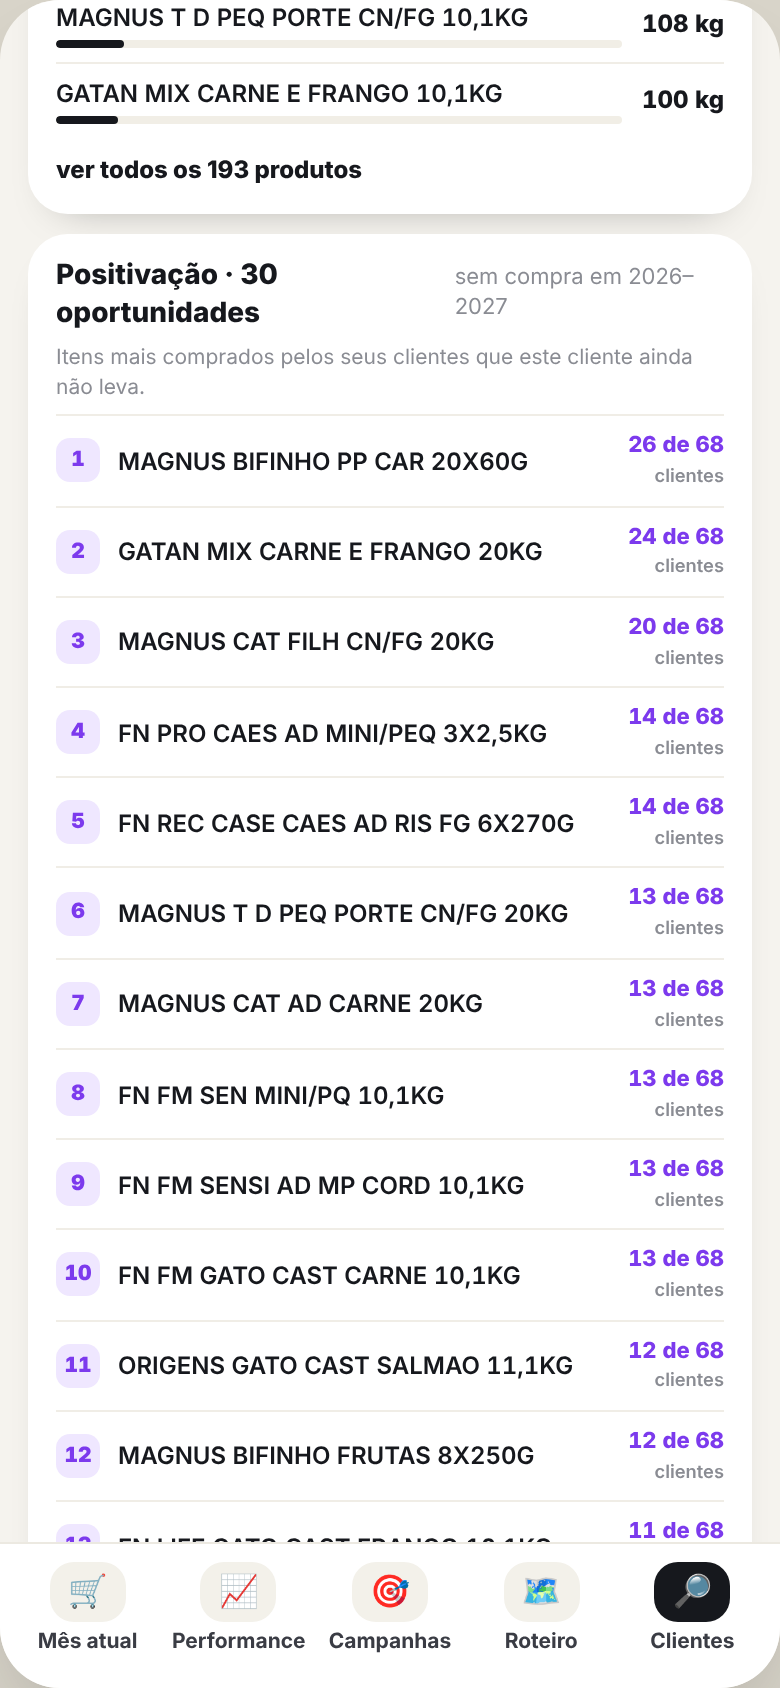
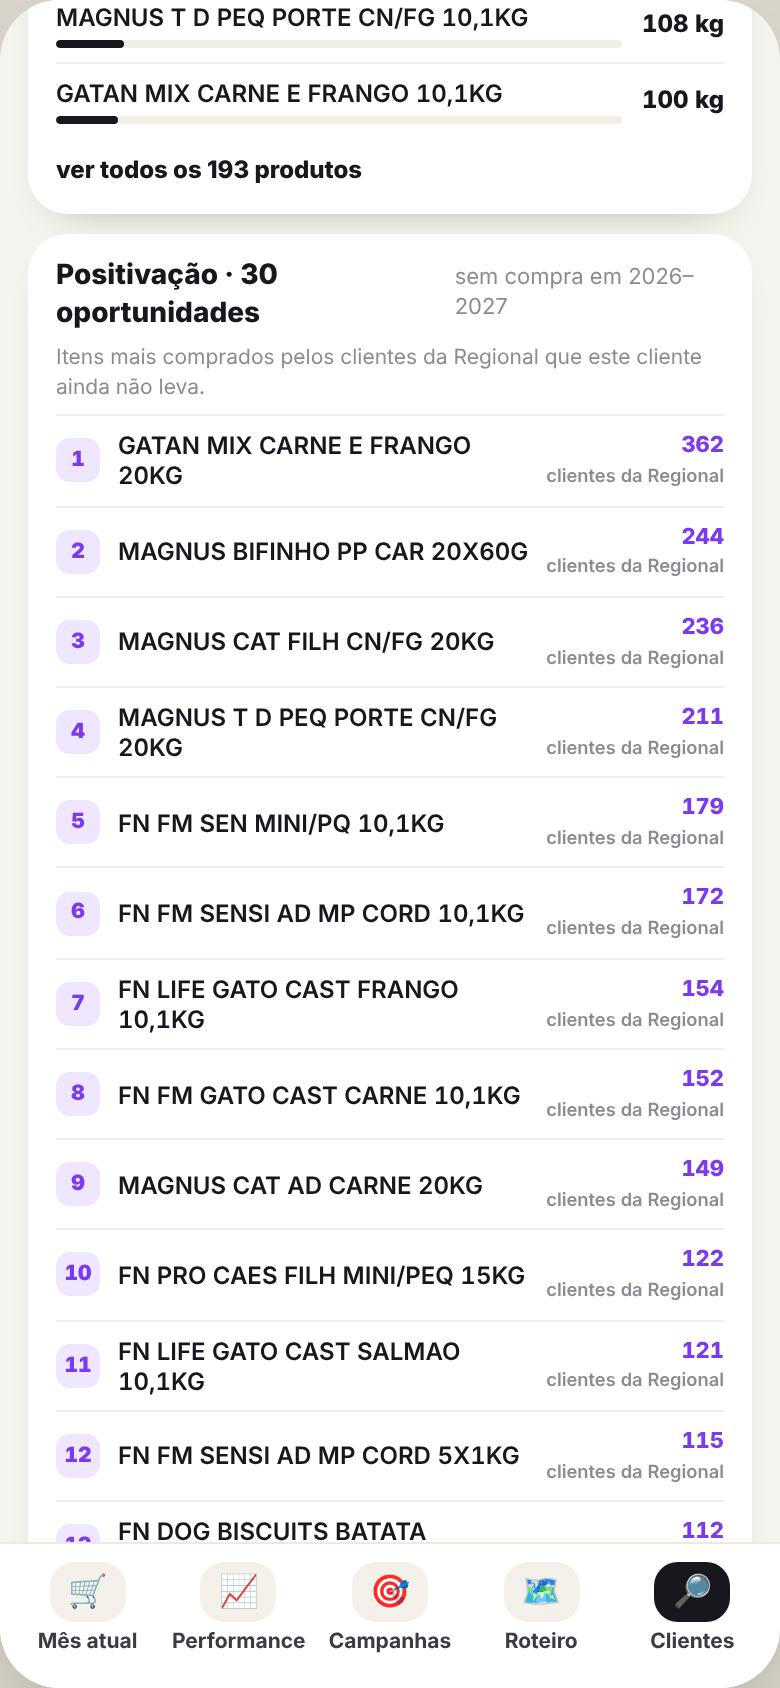
BI 2027: positivação da ficha com referência da Regional
Claude-Session: https://claude.ai/code/session_01LrJjmJWahWzPiewsbMYBEe

diff --git a/tools/bi2027/prototipos/ficha_cliente.html b/tools/bi2027/prototipos/ficha_cliente.html
@@ -40,7 +40,7 @@
 <div class="phone"><div class="scroll" id="app"></div>
 <div class="nav"><button><span>🛒</span>Mês atual</button><button><span>📈</span>Performance</button><button><span>🎯</span>Campanhas</button><button><span>🗺</span>Roteiro</button><button class="on"><span>🔎</span>Clientes</button></div></div>
 <script>
-const D={"cli": {"cod": "133752", "nome": "V DE ARAUJO SILVA AGROPECUARIA", "rede": "SEM REDE", "med25": 4409, "med26": 6099, "mes": 563, "cart": 571, "dias": 1, "freq": 8}, "reb": [{"cod": "133752", "rede": "V DE ARAUJO SILVA AGROPECUARIA", "grupo": "Total", "objetivo": 17500, "realizado": 14814, "rs_faturado": 87959, "rebate": 0}, {"cod": "133752", "rede": "V DE ARAUJO SILVA AGROPECUARIA", "grupo": "G1", "objetivo": 700, "realizado": 145, "rs_faturado": 4893, "rebate": 0}, {"cod": "133752", "rede": "V DE ARAUJO SILVA AGROPECUARIA", "grupo": "G2", "objetivo": 2400, "realizado": 68, "rs_faturado": 1214, "rebate": 0}, {"cod": "133752", "rede": "V DE ARAUJO SILVA AGROPECUARIA", "grupo": "G3", "objetivo": 6700, "realizado": 6143, "rs_faturado": 42088, "rebate": 0}], "itens": [["MAGNUS T D SABOR CARNE 15KG", 900], ["ORIGENS CLASS AD CN/FG 15KG", 875], ["MAGNUS T D SABOR CARNE 20KG", 783], ["MAGNUS T D PEQ PORTE CN/FG 15KG", 346], ["ORIGENS CLASS AD CN/FG 16KG", 200], ["FN LIFE AD PORT MINI/PEQ 15KG", 188], ["ORIGENS CAO MIN/PEQ CN/CER 15KG", 156], ["ORIGENS CAO MIN/PEQ FG/CER 15KG", 145], ["MAGNUS T D PEQ PORTE CN/FG 10,1KG", 108], ["GATAN MIX CARNE E FRANGO 10,1KG", 100], ["ORIGENS CAO SENIOR MINI/PEQ10,1KG", 70], ["ORIGENS CLASS AD CN/FG 20KG", 65], ["FN PRO CAES AD MED/GR 15KG", 59], ["ORIGENS GATO CAST SALMAO 10,1KG", 54], ["FN PRO CAES AD MINI/PEQ 15KG", 54], ["FN LIFE FILH PORT MINI/PEQ 15KG", 52], ["ORIGENS CLASS GATO CAST 10,1KG", 43], ["FN LIFE GATO CAST SALMAO 15KG", 42], ["MAGNUS T D FILH CARNE 10,1KG", 39], ["ORIGENS GATO CAST FRANGO 10,1KG", 36], ["ORIGENS GATO FILH FRANGO 10,1KG", 31], ["ORIGENS CAO FILH MINI/PEQ 10,1KG", 28], ["FN LIFE SENIOR PORT MINI/PEQ 15KG", 25], ["ORIGENS CAO FILH MED/GRAND 15KG", 25], ["ORIGENS GATO CAST CARNE 10,1KG", 24], ["ORIGENS CAO SENIOR MED/GRAND 15KG", 22], ["ORIGENS CAO MIN/PEQ CN/CER 10,1KG", 21], ["FN LIFE AD PORT MED/GR 15KG", 20], ["ORIGENS ENERGY CAO FILH FRAN 15KG", 20], ["ORIGENS AD SHIHTZU/LHASA 4X3KG", 18], ["ORIGENS CAO MIN/PEQ FG/CER 11,1KG", 18], ["MAGNUS CAT AD CARNE 10,1KG", 17], ["CAPITAO DOG SABOR CARNE 14KG", 16], ["ORIGENS CAO AD FRAN/CER 15KG", 16], ["MAGNUS CAT AD SALMAO 10,1KG", 14], ["MAGNUS CAT AD CAST SALMAO 10,1KG", 13], ["ORIGENS AD PIT BULL/ROTTW 15KG", 12], ["MAGNUS CAT AD CAST CARNE 10,1KG", 12], ["MAGNUS T D SABOR CARNE 10,1KG", 12], ["MAGNUS T D FILH CARNE 20KG", 12], ["ORIGENS CLASS AD MIN/P CN/FG 15KG", 11], ["ORIGENS ENERGY POWER AD 15KG", 11], ["SACHE ORIGENS GATO AD/FILH 18X85G", 11], ["FN LIFE AD PORT MINI/PEQ 3X2,5KG", 11], ["SACHE ORIGENS CAO AD CAR 18X85G", 11], ["ORIGENS CAO MIN/PEQ FG/CER 10,1KG", 10], ["ORIGENS AD SHIHTZU/LHASA 10,1KG", 10], ["MAGNUS CAT AD CAST FG RECH 20KG", 10], ["SACHE ORIGENS GATO CAST FG 18X85G", 10], ["MAGNUS CAT FILH CN/FG 10,1KG", 9], ["MAGNUS BIFINHO CARNE 6X500G", 9], ["FN PRO CAES SENIO MIN/PEQ 10,1KG", 8], ["SACHE ORIGENS CAO PP FRAN 18X85G", 8], ["ORIGENS CAO SENIOR MINI/PEQ 4X3KG", 8], ["ORIGENS AD YORK/MALT/SPI 10,1KG", 8], ["ORIGENS CAO LIGH M/P FG/CE 10,1KG", 8], ["ORIGENS CAO AD CARNE/CER 15KG", 8], ["ORIGENS ENERGY CAO AD FRAN 15KG", 8], ["ORIGENS FILH PIT BULL/ROTTW 15KG", 8], ["SACHE ORIGENS GATO CAST SAL18X85G", 7], ["FN FM FILH GR/GIG 12KG", 7], ["SACHE ORIGENS CAO FILH CAR 18X85G", 7], ["ORIGENS GATO AD CARNE 10,1KG", 7], ["FN LIFE FILH PORT MINI/PEQ3X2,5KG", 6], ["FN PRO CAES FILH MED/GD 15KG", 6], ["MAGNUS CHIPS AD CN/FG 15KG", 6], ["ORIGENS NAT CAO AD MG OVEL 12KG", 6], ["FN LIFE AD PORT MINI/PEQ 10,1KG", 6], ["FN FM AD MINI/PQ 10,1KG", 6], ["MAGNUS BISCOITO ORIGINAL 5X1KG", 6], ["ORIGENS FILH SHIHTZU/LHASA 10,1KG", 5], ["CAPITAO DOG SABOR CARNE 20KG", 5], ["FN LIFE SENIOR PORT MED/GR 15KG", 5], ["FN PRO CAES SENIO MED/GD 15KG", 5], ["ORIGENS GATO CAST SALMAO 4X3KG", 5], ["FN VET GATOS URINARIA 2X1,5KG", 5], ["MAGNUS BISCOITO MIX 5X1KG", 5], ["FN FM GATO CAST SALMAO 10,1KG", 4], ["ORIGENS NAT CAO AD M/P 10,1KG", 4], ["ORIGENS NAT CAO AD MP OVEL 10,1KG", 4], ["MAGNUS BIFINHO PP CAR 6X500G", 4], ["ORIGENS CAO MIN/PEQ CN/CER4X3KG", 4], ["ORIGENS CAO MIN/PEQ FG/CER 4X3KG", 4], ["ORIGENS FILH SHIHTZU/LHASA 4X3KG", 4], ["ORIGENS GATO CAST CARNE 4X3KG", 4], ["ORIGENS GATO CAST FRANGO4X3KG", 4], ["FN LIFE FILH PORT MED/GR 15KG", 4], ["ORIGENS AD SHIHTZU/LHASA 5X1KG", 4], ["ORIGENS CAO LIGHT MD/GD FG 15KG", 4], ["ORIGENS ENERGY POWER FILH 15KG", 4], ["ORIGENS NAT CAO SEN M/P 10,1KG", 3], ["FN FM AD MINI/PQ 3X2,5KG", 3], ["SACHE ORIGENS GATO CAST ATU18X85G", 3], ["ORIGENS GATO AD CARNE 4X3KG", 3], ["ORIGENS NAT CAO AD MP FG 4X3KG", 3], ["SACHE ORIGENS CAO AD CORD 18X85G", 3], ["FN FM FILH MINI/PQ 10,1KG", 2], ["ORIGENS AD BULDOG F/PUG 10,1KG", 2], ["ORIGENS GATO CAST SENIO SAL10,1KG", 2], ["ORIGENS NAT CAO FILH MP FG 10,1KG", 2], ["FN FM AD MINI/PQ 5X1KG", 2], ["MAGNUS BISCOITO ORIGINAL 10X400G", 2], ["MAGNUS BISCOITO PEQ PORT 10X400G", 2], ["FN LIFE GATO CAST FRANGO 5X1KG", 2], ["MAGNUS BISCOITO PEQ PORT 5X1KG", 2], ["FN FM AD MEDIO 12KG", 2], ["FN VET CAES HIPO MINI/PQ 2X2KG", 2], ["MAGNUS BIFINHO FRANGO 6X500G", 2], ["ORIGENS CAO FILH MINI/PEQ 4X3KG", 2], ["ORIGENS GATO FILH FRANGO 4X3KG", 2], ["ORIGENS NAT CAO FILH MG FG 12KG", 2], ["FN FM FILH MINI/PQ3X2,5KG", 2], ["FN FM SENSI AD MP CORD3X2,5KG", 2], ["FN VET CAES HIPO MINI/PQ 10,1KG", 2], ["FN LIFE FILH PORT MINI/PEQ 5X1KG", 2], ["FN PRO CAES AD MED/GD 20KG", 2], ["FN PRO CAES SENIO MIN/PEQ 5X1KG", 2], ["ORIGENS CAO SENIOR MINI/PEQ 5X1KG", 2], ["ORIGENS GATO CAST FRANGO 5X1KG", 2], ["ORIGENS GATO FILH FRANGO 5X1KG", 2], ["FN VET GATOS RENAL 2X1,5KG", 2], ["FN DOG BISCUITS PP BATATA 10X250G", 2], ["FN FM GATO CAST SALMAO 5X1KG", 1], ["FN LIFE FILH PORT MED/GR 3X2,5KG", 1], ["FN LIFE GATO FILH FRAN/SALM 5X1KG", 1], ["FN LIFE SENIOR PORT MINI/PEQ5X1KG", 1], ["FN PRO CAES AD MINI/PEQ 5X1KG", 1], ["FN PRO CAES SENIO MIN/PEQ 3X2,5KG", 1], ["MAGNUS BISCOITO MIX 10X500G", 1], ["ORIGENS CAO AD GRAND CAR/CER 15KG", 1], ["ORIGENS CAO FILH MINI/PEQ 5X1KG", 1], ["ORIGENS CAO MIN/PEQ CN/CER 5X1KG", 1], ["ORIGENS GATO CAST CARNE 5X1KG", 1], ["FN VET CAES OBES MINI/PQ 2X2KG", 1], ["MAGNUS BIFINHO PALITO CARN 8X250G", 1], ["ORIGENS BISC AD FRAN 7 GRA10X400G", 1], ["ORIGENS BISC AD PP LINHAC 10X400G", 1], ["ORIGENS GATO CAST SENIO SAL 4X3KG", 1], ["ORIGENS NAT CAO AD M/G 12KG", 1], ["FN FM CUID ORAL AD M/P FR 10,1KG", 1], ["FN LIFE FILH PORT MED/GR 10,1KG", 1], ["FN LIFE FILH PORT MINI/PEQ 10,1KG", 1], ["FN LIFE SENIOR PORT MIN/PEQ10,1KG", 1], ["FN FM GATO AD FRANGO 5X1KG", 1], ["FN LIFE AD PORT MINI/PEQ 5X1KG", 1], ["FN LIFE GATO CAST SALMAO 5X1KG", 1], ["FN PRO CAES FILH MINI/PEQ 5X1KG", 1], ["ORIGENS CAO MIN/PEQ FG/CER 5X1KG", 1], ["ORIGENS FILH SHIHTZU/LHASA 5X1KG", 1], ["ORIGENS GATO CAST SALMAO 5X1KG", 1], ["ORIGENS GATO CAST SENIO SAL 5X1KG", 1], ["ORIGENS NAT CAO AD MP FG 5X1KG", 1], ["ORIGENS NAT CAO FILH MP FG 5X1KG", 1], ["FN VET CAES GASTRO 2X2KG", 1], ["FN VET CAES RENAL 2X2KG", 1], ["ORIGENS BISC AD PP PERU 10X400G", 1], ["FN VET CAES/GATO RECUPERAC 6X270G", 0], ["ORIGENS BISC FILH BANANA 10X300G", 0], ["ORIGENS PN NATURAL MIX 4X250G", 0], ["FN DOG BISCUITS PP ABOBOR 10X250G", 0], ["FN FM FILH MINI/PQ 5X1KG", 0], ["MAGNUS BISCOITO FILHOTES 10X250G", 0], ["ORIGENS AD YORK/MALT/SPI 5X1KG", 0], ["ORIGENS NAT CAO AD MP OVEL 5X1KG", 0], ["ORIGENS NAT CAO SEN MP FG 5X1KG", 0], ["FN REC CASE CAES AD PIC CN 6X270G", 0], ["ORIGENS CREMINHO SALM 2X(35X15G)", 0], ["MAGNUS BIFINHO CARNE 20X60G", 0], ["FN REC CASE CAES AD CORD 6X270G", 0], ["ORIGENS CREMINHO CARN 2X(35X15G)", 0], ["MAGNUS CAT PETISCO CN 2X(10X40G)", 0], ["MAGNUS CAT PETISCO FG 2X(10X40G)", 0], ["ORIGENS CREMINHO SALMAO 2X(6X60G)", 0], ["ORIGENS PN FEMUR 6X180G", 0], ["ORIGENS CREMINHO FRANG 2X(35X15G)", 0], ["ORIGENS DENTAL P 20X75G", 0], ["ORIGENS CREMINHO ATUM 2X(6X60G)", 0], ["ORIGENS CREMINHO CAR 2X 6X(4X15G)", 0], ["ORIGENS CREMINHO FRA 2X 6X(4X15G)", 0], ["MAGNUS BIFINHO FRANGO 20X60G", 0], ["MAGNUS BIFINHO FRUTAS 20X60G", 0], ["MAGNUS BIFINHO PALITO CARN 20X60G", 0], ["FN FM COOKIES CAES CORDEIR 6X150G", 0], ["MAGNUS DENTAL CLEAN AD 12X75G", 0], ["MAGNUS CAT PETISCO SAL 2X(10X40G)", 0], ["PETISCO ORIGENS CAT BOLA2X(10X40G)", 0], ["FN SNACKS CAO ANTIESTRES M 6X120G", 0], ["FN SNACKS CAO ANTIESTRES P 6X120G", 0], ["FN SNACKS CAO PELE PELAG P 6X120G", 0], ["FN SNACKS CAO VITALIDADE P 6X120G", 0], ["ORIGENS CREMINHO FRANGO 2X(6X60G)", 0], ["ORIGENS PN COLAGENO 10X30G", 0], ["ORIGENS PN FEMUR SUINO 6X100G", 0]], "posit": [["MAGNUS BIFINHO PP CAR 20X60G", 26], ["GATAN MIX CARNE E FRANGO 20KG", 24], ["MAGNUS CAT FILH CN/FG 20KG", 20], ["FN PRO CAES AD MINI/PEQ 3X2,5KG", 14], ["FN REC CASE CAES AD RIS FG 6X270G", 14], ["MAGNUS T D PEQ PORTE CN/FG 20KG", 13], ["MAGNUS CAT AD CARNE 20KG", 13], ["FN FM SEN MINI/PQ 10,1KG", 13], ["FN FM SENSI AD MP CORD 10,1KG", 13], ["FN FM GATO CAST CARNE 10,1KG", 13], ["ORIGENS GATO CAST SALMAO 11,1KG", 12], ["MAGNUS BIFINHO FRUTAS 8X250G", 12], ["FN LIFE GATO CAST FRANGO 10,1KG", 11], ["MAGNUS CAT AD CAST SALMAO 20KG", 10], ["FN FM CONT PESO MED 12KG", 10], ["FN FM AD GR/GIG 12KG", 10], ["FN FM CONT PESO MIN/PQ 10,1KG", 9], ["FN FM SEN MINI/PQ 3X2,5KG", 9], ["FN REC CASE CAES AD FRANG 6X270G", 9], ["FN FM SEN MINI/PQ 5X1KG", 9], ["FN FM SEN MED/GR 12KG", 8], ["FN FM GATO SENIOR 10,1KG", 8], ["FN PRO CAES FILH MINI/PEQ 3X2,5KG", 8], ["FN FM SENSI AD MP CORD 5X1KG", 8], ["FN FM COOKIES CAES FRANGO 6X150G", 8], ["MAGNUS CAT AD CAST CARNE 20KG", 7], ["ORIGENS CLASS GATO AD 10,1 KG", 7], ["FN LIFE GATO CAST SALMAO 10,1KG", 7], ["FN FM FILH MEDIO 12KG", 7], ["FN PRO CAES FILH MINI/PEQ 15KG", 6]], "ncli": 68};
+const D={"cli": {"cod": "133752", "nome": "V DE ARAUJO SILVA AGROPECUARIA", "rede": "SEM REDE", "med25": 4409, "med26": 6099, "mes": 563, "cart": 571, "dias": 1, "freq": 8}, "reb": [{"cod": "133752", "rede": "V DE ARAUJO SILVA AGROPECUARIA", "grupo": "Total", "objetivo": 17500, "realizado": 14814, "rs_faturado": 87959, "rebate": 0}, {"cod": "133752", "rede": "V DE ARAUJO SILVA AGROPECUARIA", "grupo": "G1", "objetivo": 700, "realizado": 145, "rs_faturado": 4893, "rebate": 0}, {"cod": "133752", "rede": "V DE ARAUJO SILVA AGROPECUARIA", "grupo": "G2", "objetivo": 2400, "realizado": 68, "rs_faturado": 1214, "rebate": 0}, {"cod": "133752", "rede": "V DE ARAUJO SILVA AGROPECUARIA", "grupo": "G3", "objetivo": 6700, "realizado": 6143, "rs_faturado": 42088, "rebate": 0}], "itens": [["MAGNUS T D SABOR CARNE 15KG", 900], ["ORIGENS CLASS AD CN/FG 15KG", 875], ["MAGNUS T D SABOR CARNE 20KG", 783], ["MAGNUS T D PEQ PORTE CN/FG 15KG", 346], ["ORIGENS CLASS AD CN/FG 16KG", 200], ["FN LIFE AD PORT MINI/PEQ 15KG", 188], ["ORIGENS CAO MIN/PEQ CN/CER 15KG", 156], ["ORIGENS CAO MIN/PEQ FG/CER 15KG", 145], ["MAGNUS T D PEQ PORTE CN/FG 10,1KG", 108], ["GATAN MIX CARNE E FRANGO 10,1KG", 100], ["ORIGENS CAO SENIOR MINI/PEQ10,1KG", 70], ["ORIGENS CLASS AD CN/FG 20KG", 65], ["FN PRO CAES AD MED/GR 15KG", 59], ["ORIGENS GATO CAST SALMAO 10,1KG", 54], ["FN PRO CAES AD MINI/PEQ 15KG", 54], ["FN LIFE FILH PORT MINI/PEQ 15KG", 52], ["ORIGENS CLASS GATO CAST 10,1KG", 43], ["FN LIFE GATO CAST SALMAO 15KG", 42], ["MAGNUS T D FILH CARNE 10,1KG", 39], ["ORIGENS GATO CAST FRANGO 10,1KG", 36], ["ORIGENS GATO FILH FRANGO 10,1KG", 31], ["ORIGENS CAO FILH MINI/PEQ 10,1KG", 28], ["FN LIFE SENIOR PORT MINI/PEQ 15KG", 25], ["ORIGENS CAO FILH MED/GRAND 15KG", 25], ["ORIGENS GATO CAST CARNE 10,1KG", 24], ["ORIGENS CAO SENIOR MED/GRAND 15KG", 22], ["ORIGENS CAO MIN/PEQ CN/CER 10,1KG", 21], ["FN LIFE AD PORT MED/GR 15KG", 20], ["ORIGENS ENERGY CAO FILH FRAN 15KG", 20], ["ORIGENS AD SHIHTZU/LHASA 4X3KG", 18], ["ORIGENS CAO MIN/PEQ FG/CER 11,1KG", 18], ["MAGNUS CAT AD CARNE 10,1KG", 17], ["CAPITAO DOG SABOR CARNE 14KG", 16], ["ORIGENS CAO AD FRAN/CER 15KG", 16], ["MAGNUS CAT AD SALMAO 10,1KG", 14], ["MAGNUS CAT AD CAST SALMAO 10,1KG", 13], ["ORIGENS AD PIT BULL/ROTTW 15KG", 12], ["MAGNUS CAT AD CAST CARNE 10,1KG", 12], ["MAGNUS T D SABOR CARNE 10,1KG", 12], ["MAGNUS T D FILH CARNE 20KG", 12], ["ORIGENS CLASS AD MIN/P CN/FG 15KG", 11], ["ORIGENS ENERGY POWER AD 15KG", 11], ["SACHE ORIGENS GATO AD/FILH 18X85G", 11], ["FN LIFE AD PORT MINI/PEQ 3X2,5KG", 11], ["SACHE ORIGENS CAO AD CAR 18X85G", 11], ["ORIGENS CAO MIN/PEQ FG/CER 10,1KG", 10], ["ORIGENS AD SHIHTZU/LHASA 10,1KG", 10], ["MAGNUS CAT AD CAST FG RECH 20KG", 10], ["SACHE ORIGENS GATO CAST FG 18X85G", 10], ["MAGNUS CAT FILH CN/FG 10,1KG", 9], ["MAGNUS BIFINHO CARNE 6X500G", 9], ["FN PRO CAES SENIO MIN/PEQ 10,1KG", 8], ["SACHE ORIGENS CAO PP FRAN 18X85G", 8], ["ORIGENS CAO SENIOR MINI/PEQ 4X3KG", 8], ["ORIGENS AD YORK/MALT/SPI 10,1KG", 8], ["ORIGENS CAO LIGH M/P FG/CE 10,1KG", 8], ["ORIGENS CAO AD CARNE/CER 15KG", 8], ["ORIGENS ENERGY CAO AD FRAN 15KG", 8], ["ORIGENS FILH PIT BULL/ROTTW 15KG", 8], ["SACHE ORIGENS GATO CAST SAL18X85G", 7], ["FN FM FILH GR/GIG 12KG", 7], ["SACHE ORIGENS CAO FILH CAR 18X85G", 7], ["ORIGENS GATO AD CARNE 10,1KG", 7], ["FN LIFE FILH PORT MINI/PEQ3X2,5KG", 6], ["FN PRO CAES FILH MED/GD 15KG", 6], ["MAGNUS CHIPS AD CN/FG 15KG", 6], ["ORIGENS NAT CAO AD MG OVEL 12KG", 6], ["FN LIFE AD PORT MINI/PEQ 10,1KG", 6], ["FN FM AD MINI/PQ 10,1KG", 6], ["MAGNUS BISCOITO ORIGINAL 5X1KG", 6], ["ORIGENS FILH SHIHTZU/LHASA 10,1KG", 5], ["CAPITAO DOG SABOR CARNE 20KG", 5], ["FN LIFE SENIOR PORT MED/GR 15KG", 5], ["FN PRO CAES SENIO MED/GD 15KG", 5], ["ORIGENS GATO CAST SALMAO 4X3KG", 5], ["FN VET GATOS URINARIA 2X1,5KG", 5], ["MAGNUS BISCOITO MIX 5X1KG", 5], ["FN FM GATO CAST SALMAO 10,1KG", 4], ["ORIGENS NAT CAO AD M/P 10,1KG", 4], ["ORIGENS NAT CAO AD MP OVEL 10,1KG", 4], ["MAGNUS BIFINHO PP CAR 6X500G", 4], ["ORIGENS CAO MIN/PEQ CN/CER4X3KG", 4], ["ORIGENS CAO MIN/PEQ FG/CER 4X3KG", 4], ["ORIGENS FILH SHIHTZU/LHASA 4X3KG", 4], ["ORIGENS GATO CAST CARNE 4X3KG", 4], ["ORIGENS GATO CAST FRANGO4X3KG", 4], ["FN LIFE FILH PORT MED/GR 15KG", 4], ["ORIGENS AD SHIHTZU/LHASA 5X1KG", 4], ["ORIGENS CAO LIGHT MD/GD FG 15KG", 4], ["ORIGENS ENERGY POWER FILH 15KG", 4], ["ORIGENS NAT CAO SEN M/P 10,1KG", 3], ["FN FM AD MINI/PQ 3X2,5KG", 3], ["SACHE ORIGENS GATO CAST ATU18X85G", 3], ["ORIGENS GATO AD CARNE 4X3KG", 3], ["ORIGENS NAT CAO AD MP FG 4X3KG", 3], ["SACHE ORIGENS CAO AD CORD 18X85G", 3], ["FN FM FILH MINI/PQ 10,1KG", 2], ["ORIGENS AD BULDOG F/PUG 10,1KG", 2], ["ORIGENS GATO CAST SENIO SAL10,1KG", 2], ["ORIGENS NAT CAO FILH MP FG 10,1KG", 2], ["FN FM AD MINI/PQ 5X1KG", 2], ["MAGNUS BISCOITO ORIGINAL 10X400G", 2], ["MAGNUS BISCOITO PEQ PORT 10X400G", 2], ["FN LIFE GATO CAST FRANGO 5X1KG", 2], ["MAGNUS BISCOITO PEQ PORT 5X1KG", 2], ["FN FM AD MEDIO 12KG", 2], ["FN VET CAES HIPO MINI/PQ 2X2KG", 2], ["MAGNUS BIFINHO FRANGO 6X500G", 2], ["ORIGENS CAO FILH MINI/PEQ 4X3KG", 2], ["ORIGENS GATO FILH FRANGO 4X3KG", 2], ["ORIGENS NAT CAO FILH MG FG 12KG", 2], ["FN FM FILH MINI/PQ3X2,5KG", 2], ["FN FM SENSI AD MP CORD3X2,5KG", 2], ["FN VET CAES HIPO MINI/PQ 10,1KG", 2], ["FN LIFE FILH PORT MINI/PEQ 5X1KG", 2], ["FN PRO CAES AD MED/GD 20KG", 2], ["FN PRO CAES SENIO MIN/PEQ 5X1KG", 2], ["ORIGENS CAO SENIOR MINI/PEQ 5X1KG", 2], ["ORIGENS GATO CAST FRANGO 5X1KG", 2], ["ORIGENS GATO FILH FRANGO 5X1KG", 2], ["FN VET GATOS RENAL 2X1,5KG", 2], ["FN DOG BISCUITS PP BATATA 10X250G", 2], ["FN FM GATO CAST SALMAO 5X1KG", 1], ["FN LIFE FILH PORT MED/GR 3X2,5KG", 1], ["FN LIFE GATO FILH FRAN/SALM 5X1KG", 1], ["FN LIFE SENIOR PORT MINI/PEQ5X1KG", 1], ["FN PRO CAES AD MINI/PEQ 5X1KG", 1], ["FN PRO CAES SENIO MIN/PEQ 3X2,5KG", 1], ["MAGNUS BISCOITO MIX 10X500G", 1], ["ORIGENS CAO AD GRAND CAR/CER 15KG", 1], ["ORIGENS CAO FILH MINI/PEQ 5X1KG", 1], ["ORIGENS CAO MIN/PEQ CN/CER 5X1KG", 1], ["ORIGENS GATO CAST CARNE 5X1KG", 1], ["FN VET CAES OBES MINI/PQ 2X2KG", 1], ["MAGNUS BIFINHO PALITO CARN 8X250G", 1], ["ORIGENS BISC AD FRAN 7 GRA10X400G", 1], ["ORIGENS BISC AD PP LINHAC 10X400G", 1], ["ORIGENS GATO CAST SENIO SAL 4X3KG", 1], ["ORIGENS NAT CAO AD M/G 12KG", 1], ["FN FM CUID ORAL AD M/P FR 10,1KG", 1], ["FN LIFE FILH PORT MED/GR 10,1KG", 1], ["FN LIFE FILH PORT MINI/PEQ 10,1KG", 1], ["FN LIFE SENIOR PORT MIN/PEQ10,1KG", 1], ["FN FM GATO AD FRANGO 5X1KG", 1], ["FN LIFE AD PORT MINI/PEQ 5X1KG", 1], ["FN LIFE GATO CAST SALMAO 5X1KG", 1], ["FN PRO CAES FILH MINI/PEQ 5X1KG", 1], ["ORIGENS CAO MIN/PEQ FG/CER 5X1KG", 1], ["ORIGENS FILH SHIHTZU/LHASA 5X1KG", 1], ["ORIGENS GATO CAST SALMAO 5X1KG", 1], ["ORIGENS GATO CAST SENIO SAL 5X1KG", 1], ["ORIGENS NAT CAO AD MP FG 5X1KG", 1], ["ORIGENS NAT CAO FILH MP FG 5X1KG", 1], ["FN VET CAES GASTRO 2X2KG", 1], ["FN VET CAES RENAL 2X2KG", 1], ["ORIGENS BISC AD PP PERU 10X400G", 1], ["FN VET CAES/GATO RECUPERAC 6X270G", 0], ["ORIGENS BISC FILH BANANA 10X300G", 0], ["ORIGENS PN NATURAL MIX 4X250G", 0], ["FN DOG BISCUITS PP ABOBOR 10X250G", 0], ["FN FM FILH MINI/PQ 5X1KG", 0], ["MAGNUS BISCOITO FILHOTES 10X250G", 0], ["ORIGENS AD YORK/MALT/SPI 5X1KG", 0], ["ORIGENS NAT CAO AD MP OVEL 5X1KG", 0], ["ORIGENS NAT CAO SEN MP FG 5X1KG", 0], ["FN REC CASE CAES AD PIC CN 6X270G", 0], ["ORIGENS CREMINHO SALM 2X(35X15G)", 0], ["MAGNUS BIFINHO CARNE 20X60G", 0], ["FN REC CASE CAES AD CORD 6X270G", 0], ["ORIGENS CREMINHO CARN 2X(35X15G)", 0], ["MAGNUS CAT PETISCO CN 2X(10X40G)", 0], ["MAGNUS CAT PETISCO FG 2X(10X40G)", 0], ["ORIGENS CREMINHO SALMAO 2X(6X60G)", 0], ["ORIGENS PN FEMUR 6X180G", 0], ["ORIGENS CREMINHO FRANG 2X(35X15G)", 0], ["ORIGENS DENTAL P 20X75G", 0], ["ORIGENS CREMINHO ATUM 2X(6X60G)", 0], ["ORIGENS CREMINHO CAR 2X 6X(4X15G)", 0], ["ORIGENS CREMINHO FRA 2X 6X(4X15G)", 0], ["MAGNUS BIFINHO FRANGO 20X60G", 0], ["MAGNUS BIFINHO FRUTAS 20X60G", 0], ["MAGNUS BIFINHO PALITO CARN 20X60G", 0], ["FN FM COOKIES CAES CORDEIR 6X150G", 0], ["MAGNUS DENTAL CLEAN AD 12X75G", 0], ["MAGNUS CAT PETISCO SAL 2X(10X40G)", 0], ["PETISCO ORIGENS CAT BOLA2X(10X40G)", 0], ["FN SNACKS CAO ANTIESTRES M 6X120G", 0], ["FN SNACKS CAO ANTIESTRES P 6X120G", 0], ["FN SNACKS CAO PELE PELAG P 6X120G", 0], ["FN SNACKS CAO VITALIDADE P 6X120G", 0], ["ORIGENS CREMINHO FRANGO 2X(6X60G)", 0], ["ORIGENS PN COLAGENO 10X30G", 0], ["ORIGENS PN FEMUR SUINO 6X100G", 0]], "posit": [["GATAN MIX CARNE E FRANGO 20KG", 362], ["MAGNUS BIFINHO PP CAR 20X60G", 244], ["MAGNUS CAT FILH CN/FG 20KG", 236], ["MAGNUS T D PEQ PORTE CN/FG 20KG", 211], ["FN FM SEN MINI/PQ 10,1KG", 179], ["FN FM SENSI AD MP CORD 10,1KG", 172], ["FN LIFE GATO CAST FRANGO 10,1KG", 154], ["FN FM GATO CAST CARNE 10,1KG", 152], ["MAGNUS CAT AD CARNE 20KG", 149], ["FN PRO CAES FILH MINI/PEQ 15KG", 122], ["FN LIFE GATO CAST SALMAO 10,1KG", 121], ["FN FM SENSI AD MP CORD 5X1KG", 115], ["FN DOG BISCUITS BATATA 10X250G", 112], ["FN PRO CAES AD MINI/PEQ 3X2,5KG", 111], ["FN FM SEN MINI/PQ 3X2,5KG", 110], ["MAGNUS BIFINHO FRUTAS 8X250G", 98], ["FN FM GATO CAST CARNE 5X1KG", 97], ["MAGNUS CAT AD CAST SALMAO 20KG", 96], ["FN FM CONT PESO MIN/PQ 10,1KG", 95], ["MAGNUS CAT AD CAST CARNE 20KG", 93], ["FN FM SEN MINI/PQ 5X1KG", 90], ["FN REC CASE CAES AD FRANG 6X270G", 89], ["FN VET GATOS URINARIA 7KG", 88], ["FN DOG BISCUITS ABOBOR 10X250G", 88], ["FN FM CONT PESO MED 12KG", 87], ["FN FM AD GR/GIG 12KG", 86], ["FN FM FILH MEDIO 12KG", 84], ["FN FM GATO SENIOR 10,1KG", 84], ["FN FM COOKIES CAES FRANGO 6X150G", 82], ["FN FM GATO AD FRANGO 10,1KG", 81]], "ncli": 938};
 const f=n=>Math.round(n).toLocaleString('pt-BR'), t=n=>(n/1000).toLocaleString('pt-BR',{minimumFractionDigits:1,maximumFractionDigits:1})+' t';
 const kg=n=>n>=1000?t(n):f(n)+' kg';
 const c=D.cli, tone=p=>p>=1?'#0f9d6b':p>=.8?'#c98a00':'#d64545';
@@ -64,8 +64,8 @@ ${tot?`<div class="card prime"><div class="ch"><b>Objetivo Prime</b><small>rebat
  ${its.map(([p,v])=>`<div class="row num"><div><div class="p">${p}</div><div class="bar"><i style="width:${v/mx*100}%"></i></div></div><div class="v">${kg(v)}</div></div>`).join('')}
  ${D.itens.length>10?`<button class="more" onclick="showAll=!showAll;draw()">${showAll?'mostrar menos':'ver todos os '+D.itens.length+' produtos'}</button>`:''}</div>
 <div class="card"><div class="ch"><b>Positivação · 30 oportunidades</b><small>sem compra em 2026–2027</small></div>
- <div class="note" style="margin:-2px 0 6px">Itens mais comprados pelos seus clientes que este cliente ainda não leva.</div>
- ${D.posit.map(([p,n],i)=>`<div class="ps num"><span class="n">${i+1}</span><div class="p">${p}</div><div class="v">${n} de ${D.ncli}<br><small style="color:#8a8c93;font-weight:600">clientes</small></div></div>`).join('')}</div>
+ <div class="note" style="margin:-2px 0 6px">Itens mais comprados pelos clientes da Regional que este cliente ainda não leva.</div>
+ ${D.posit.map(([p,n],i)=>`<div class="ps num"><span class="n">${i+1}</span><div class="p">${p}</div><div class="v">${n}<br><small style="color:#8a8c93;font-weight:600">clientes da Regional</small></div></div>`).join('')}</div>
 <div class="note">Prévia com os dados disponíveis hoje: a média dos produtos usa os últimos 12 meses e a positivação considera "sem compra nos últimos 12 meses". Na versão final entram a extração dos últimos 6 meses fechados e o filtro 2026–2027.</div>`;}
 draw();
 </script></body></html>

diff --git a/tools/bi2027/fontes/ficha.tpl.html b/tools/bi2027/fontes/ficha.tpl.html
@@ -64,8 +64,8 @@ ${tot?`<div class="card prime"><div class="ch"><b>Objetivo Prime</b><small>rebat
  ${its.map(([p,v])=>`<div class="row num"><div><div class="p">${p}</div><div class="bar"><i style="width:${v/mx*100}%"></i></div></div><div class="v">${kg(v)}</div></div>`).join('')}
  ${D.itens.length>10?`<button class="more" onclick="showAll=!showAll;draw()">${showAll?'mostrar menos':'ver todos os '+D.itens.length+' produtos'}</button>`:''}</div>
 <div class="card"><div class="ch"><b>Positivação · 30 oportunidades</b><small>sem compra em 2026–2027</small></div>
- <div class="note" style="margin:-2px 0 6px">Itens mais comprados pelos seus clientes que este cliente ainda não leva.</div>
- ${D.posit.map(([p,n],i)=>`<div class="ps num"><span class="n">${i+1}</span><div class="p">${p}</div><div class="v">${n} de ${D.ncli}<br><small style="color:#8a8c93;font-weight:600">clientes</small></div></div>`).join('')}</div>
+ <div class="note" style="margin:-2px 0 6px">Itens mais comprados pelos clientes da Regional que este cliente ainda não leva.</div>
+ ${D.posit.map(([p,n],i)=>`<div class="ps num"><span class="n">${i+1}</span><div class="p">${p}</div><div class="v">${n}<br><small style="color:#8a8c93;font-weight:600">clientes da Regional</small></div></div>`).join('')}</div>
 <div class="note">Prévia com os dados disponíveis hoje: a média dos produtos usa os últimos 12 meses e a positivação considera "sem compra nos últimos 12 meses". Na versão final entram a extração dos últimos 6 meses fechados e o filtro 2026–2027.</div>`;}
 draw();
 </script></body></html>
